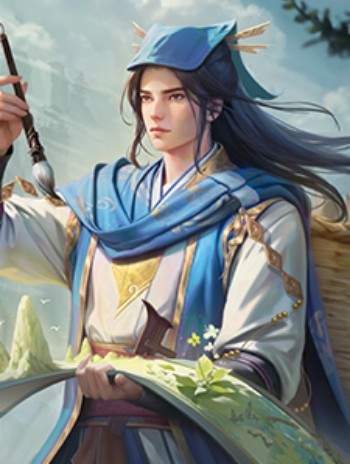
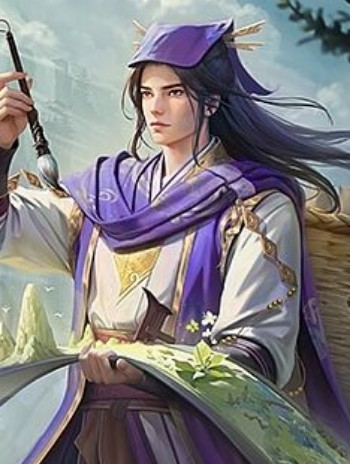
OL裴秀改晋势力，族吴乔原画再修（群友制图）

diff --git a/character/sp/character.js b/character/sp/character.js
@@ -1,7 +1,7 @@
 const characters = {
 	ol_jiangwan: ["male", "shu", 3, ["olziruo", "olxvfa"]],
 	caimao: ["male", "wei", 4, ["olzuolian", "oljingzhou"]],
-	ol_peixiu: ["male", "wei", 4, ["olmaozhu", "oljinlan"]],
+	ol_peixiu: ["male", "jin", 4, ["olmaozhu", "oljinlan"]],
 	yadan: ["male", "qun", 4, ["olqingya", "oltielun"]],
 	sp_sunce: ["male", "qun", 4, ["junkliantao"]],
 	ol_liupi: ["male", "qun", 4, ["olyicheng"]],
